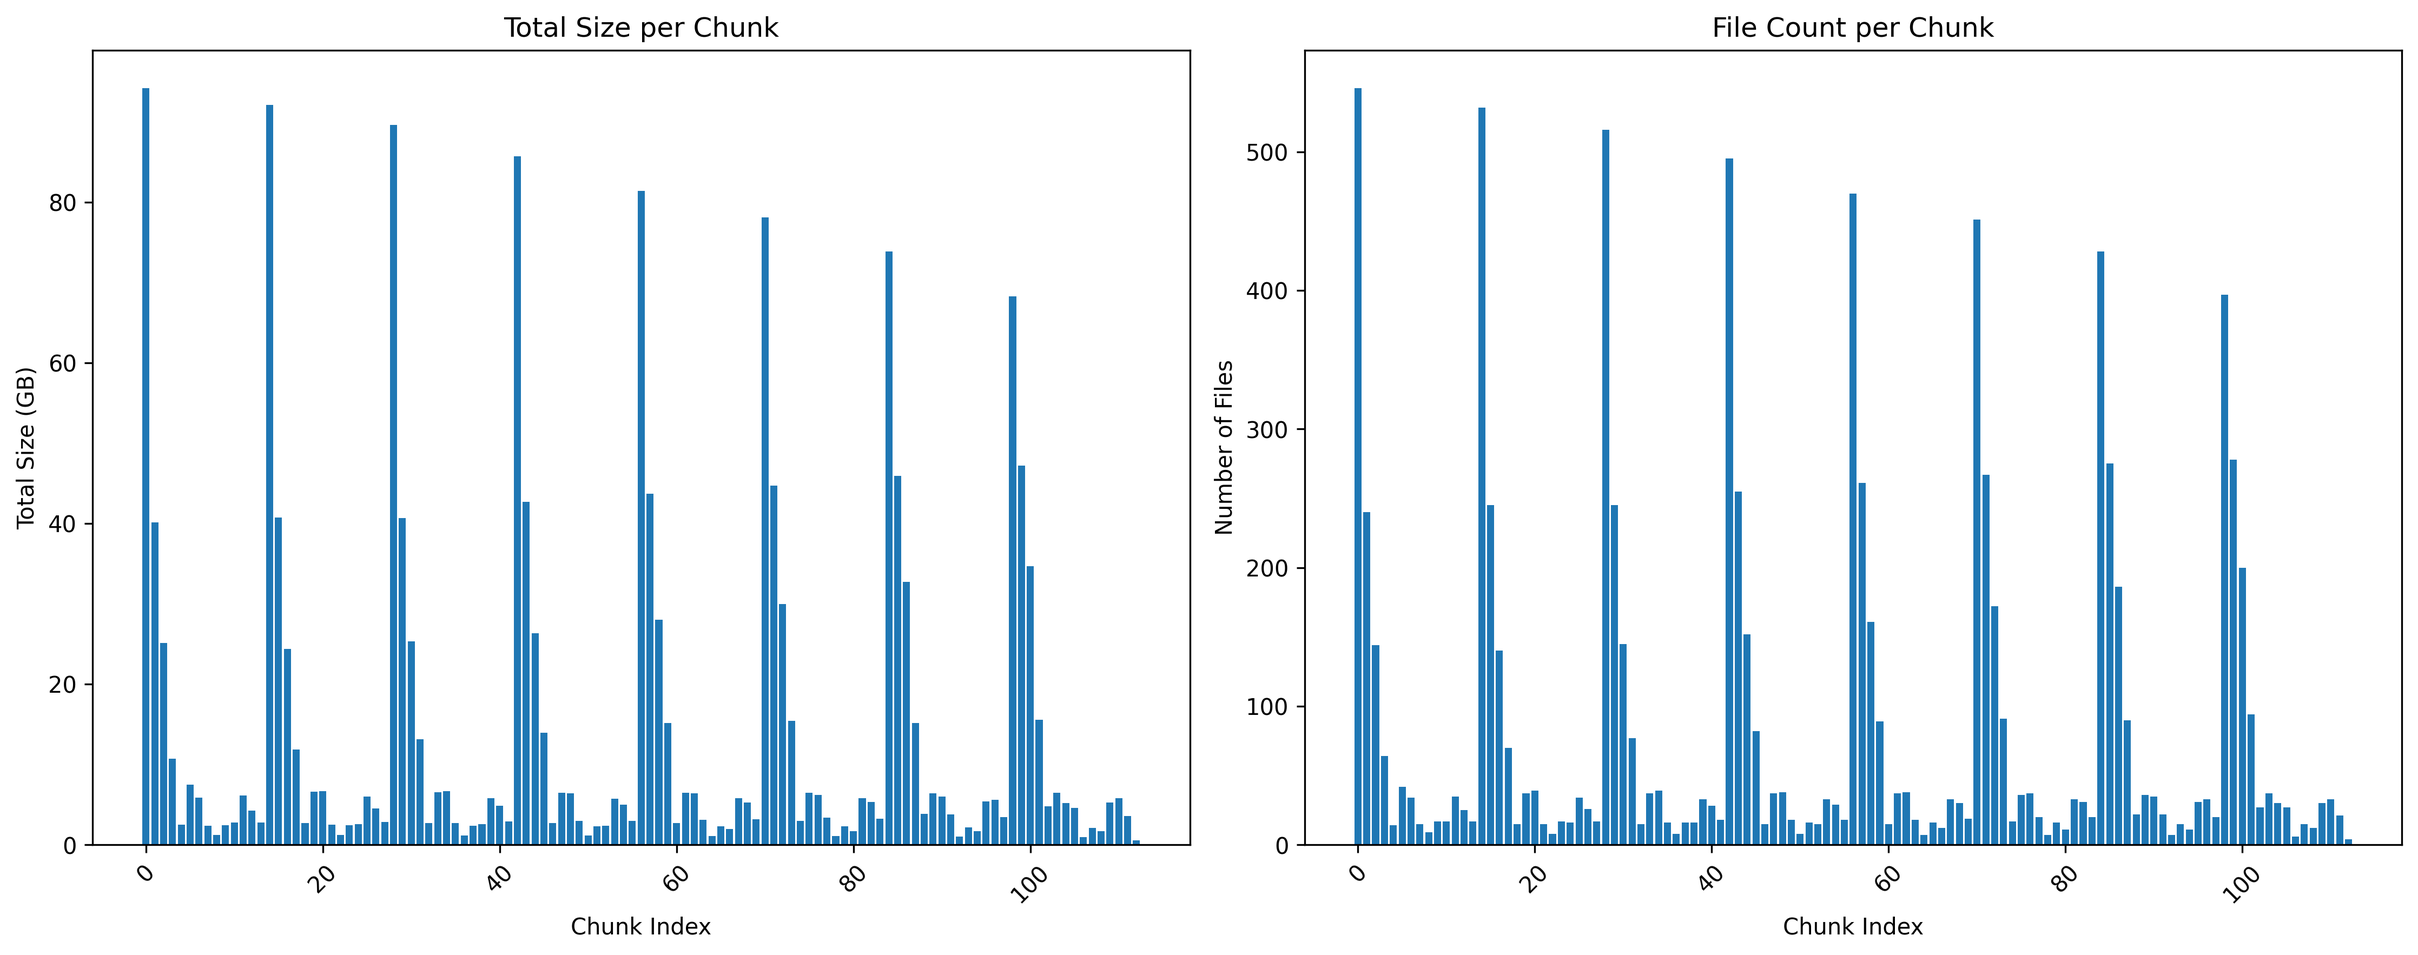
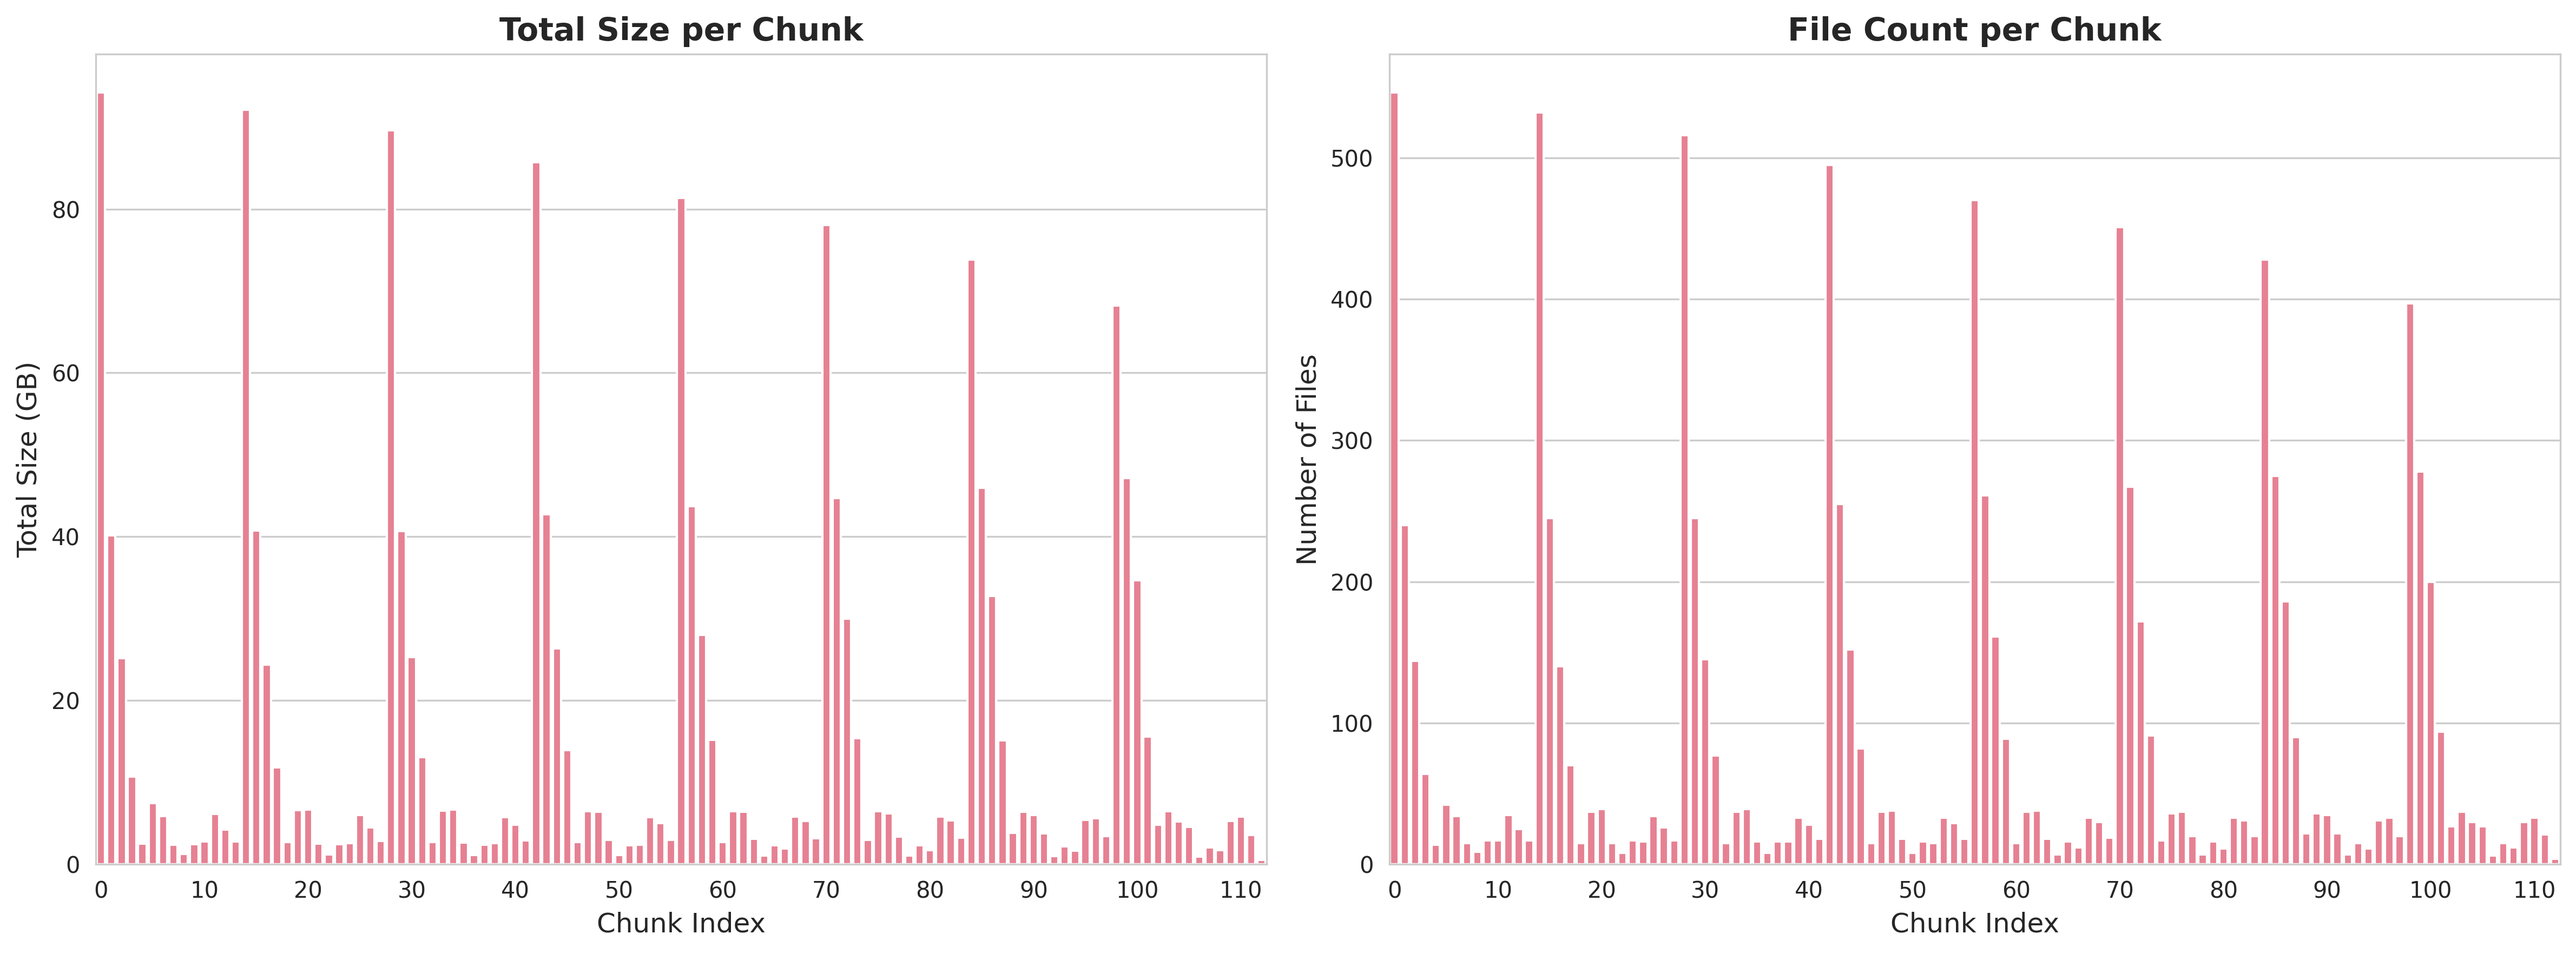
feat: Lorenz curve

diff --git a/scripts/plot_file_sizes.py b/scripts/plot_file_sizes.py
@@ -1,5 +1,10 @@
 import polars as pl
 import matplotlib.pyplot as plt
+import seaborn as sns
+
+# Set seaborn style
+sns.set_style("whitegrid")
+sns.set_palette("husl")
 
 # Load the data
 full_sizes = pl.read_csv("source_size/full_file_sizes.csv")
@@ -11,64 +16,99 @@ print(f"\nChunk totals:")
 print(chunk_totals)
 
 # Plot 1: Chunk totals bar chart
-fig, (ax1, ax2) = plt.subplots(1, 2, figsize=(15, 6))
+fig, (ax1, ax2) = plt.subplots(1, 2, figsize=(16, 6))
 
 # Bar chart of total size per chunk
 chunk_data = chunk_totals.sort("chunk_index")
-ax1.bar(chunk_data["chunk_index"], chunk_data["total_size_gb"])
-ax1.set_xlabel("Chunk Index")
-ax1.set_ylabel("Total Size (GB)")
-ax1.set_title("Total Size per Chunk")
-ax1.tick_params(axis='x', rotation=45)
+sns.barplot(data=chunk_data.to_pandas(), x="chunk_index", y="total_size_gb", ax=ax1)
+ax1.set_xlabel("Chunk Index", fontsize=12)
+ax1.set_ylabel("Total Size (GB)", fontsize=12)
+ax1.set_title("Total Size per Chunk", fontsize=14, fontweight='bold')
 
-# Plot 2: File count per chunk
-ax2.bar(chunk_data["chunk_index"], chunk_data["file_count"])
-ax2.set_xlabel("Chunk Index")
-ax2.set_ylabel("Number of Files")
-ax2.set_title("File Count per Chunk")
-ax2.tick_params(axis='x', rotation=45)
+# Show every 10th tick label
+chunk_indices = chunk_data["chunk_index"].to_list()
+ax1.set_xticks(range(0, len(chunk_indices), 10))
+ax1.set_xticklabels([chunk_indices[i] for i in range(0, len(chunk_indices), 10)])
+
+# File count per chunk
+sns.barplot(data=chunk_data.to_pandas(), x="chunk_index", y="file_count", ax=ax2)
+ax2.set_xlabel("Chunk Index", fontsize=12)
+ax2.set_ylabel("Number of Files", fontsize=12)
+ax2.set_title("File Count per Chunk", fontsize=14, fontweight='bold')
+
+# Show every 10th tick label
+ax2.set_xticks(range(0, len(chunk_indices), 10))
+ax2.set_xticklabels([chunk_indices[i] for i in range(0, len(chunk_indices), 10)])
 
 plt.tight_layout()
 plt.savefig("source_size/chunk_analysis.png", dpi=300, bbox_inches="tight")
 plt.show()
 
-# Plot 3: Distribution of individual file sizes
-plt.figure(figsize=(12, 8))
+# Plot 2: Distribution of individual file sizes
+fig, ((ax1, ax2), (ax3, ax4)) = plt.subplots(2, 2, figsize=(15, 10))
 
 # Histogram of file sizes
-plt.subplot(2, 2, 1)
-plt.hist(full_sizes["size_gb"], bins=50, alpha=0.7, edgecolor='black')
-plt.xlabel("File Size (GB)")
-plt.ylabel("Frequency")
-plt.title("Distribution of Individual File Sizes")
+sns.histplot(data=full_sizes.to_pandas(), x="size_gb", bins=50, kde=True, ax=ax1)
+ax1.set_xlabel("File Size (GB)", fontsize=12)
+ax1.set_ylabel("Frequency", fontsize=12)
+ax1.set_title("Distribution of Individual File Sizes", fontsize=14, fontweight='bold')
 
-# Box plot of file sizes per chunk (sample first few chunks if too many)
-plt.subplot(2, 2, 2)
-sample_chunks = full_sizes.filter(
-    pl.col("filename").str.extract(r"chunk_(\d+)", 1).cast(pl.Int32) < 10
+# Box plot of file sizes for ALL chunks (sample every 10th chunk for readability)
+sample_chunks = full_sizes.with_columns(
+    pl.col("filename").str.extract(r"chunk_(\d+)", 1).cast(pl.Int32).alias("chunk_num")
+).filter(
+    pl.col("chunk_num") % 10 == 0  # Every 10th chunk
 )
-chunk_labels = sample_chunks.with_columns(
-    pl.col("filename").str.extract(r"chunk_(\d+)", 1).alias("chunk")
-)
-chunks_list = chunk_labels["chunk"].unique().sort()
-box_data = [chunk_labels.filter(pl.col("chunk") == c)["size_gb"].to_list() 
-           for c in chunks_list]
-plt.boxplot(box_data, labels=chunks_list)
-plt.xlabel("Chunk Index")
-plt.ylabel("File Size (GB)")
-plt.title("File Size Distribution by Chunk (First 10)")
+chunk_labels_df = sample_chunks.to_pandas()
+sns.boxplot(data=chunk_labels_df, x="chunk_num", y="size_gb", ax=ax2)
+ax2.set_xlabel("Chunk Index (Every 10th)", fontsize=12)
+ax2.set_ylabel("File Size (GB)", fontsize=12)
+ax2.set_title("File Size Distribution by Chunk (Every 10th)", fontsize=14, fontweight='bold')
 
 # Scatter plot: file index vs size for first chunk
-plt.subplot(2, 1, 2)
-chunk_0_files = full_sizes.filter(pl.col("filename").str.contains("chunk_0"))
-file_indices = range(len(chunk_0_files))
-plt.scatter(file_indices, chunk_0_files["size_gb"], alpha=0.6, s=20)
-plt.xlabel("File Index within Chunk 0")
-plt.ylabel("File Size (GB)")
-plt.title("File Sizes within Chunk 0")
+chunk_0_files = full_sizes.filter(pl.col("filename").str.contains("chunk_0")).to_pandas()
+chunk_0_files['file_index'] = range(len(chunk_0_files))
+sns.scatterplot(data=chunk_0_files, x="file_index", y="size_gb", alpha=0.6, ax=ax3)
+ax3.set_xlabel("File Index within Chunk 0", fontsize=12)
+ax3.set_ylabel("File Size (GB)", fontsize=12)
+ax3.set_title("File Sizes within Chunk 0", fontsize=14, fontweight='bold')
+
+# Violin plot showing distribution across all chunks (sample for readability)
+sample_for_violin = full_sizes.with_columns(
+    pl.col("filename").str.extract(r"chunk_(\d+)", 1).cast(pl.Int32).alias("chunk_num")
+).filter(
+    pl.col("chunk_num") < 20  # First 20 chunks
+).to_pandas()
+sns.violinplot(data=sample_for_violin, x="chunk_num", y="size_gb", ax=ax4)
+ax4.set_xlabel("Chunk Index (First 20)", fontsize=12)
+ax4.set_ylabel("File Size (GB)", fontsize=12)
+ax4.set_title("File Size Distribution by Chunk (Violin Plot)", fontsize=14, fontweight='bold')
+ax4.tick_params(axis='x', rotation=45)
 
 plt.tight_layout()
 plt.savefig("source_size/file_size_distribution.png", dpi=300, bbox_inches="tight")
+plt.show()
+
+# Plot 3: Line plot showing trends across all chunks
+fig, (ax1, ax2) = plt.subplots(2, 1, figsize=(16, 10))
+
+# Total size trend
+chunk_pandas = chunk_data.to_pandas()
+sns.lineplot(data=chunk_pandas, x="chunk_index", y="total_size_gb", marker='o', ax=ax1)
+ax1.set_xlabel("Chunk Index", fontsize=12)
+ax1.set_ylabel("Total Size (GB)", fontsize=12)
+ax1.set_title("Total Size Trend Across All Chunks", fontsize=14, fontweight='bold')
+ax1.grid(True, alpha=0.3)
+
+# File count trend
+sns.lineplot(data=chunk_pandas, x="chunk_index", y="file_count", marker='s', color='orange', ax=ax2)
+ax2.set_xlabel("Chunk Index", fontsize=12)
+ax2.set_ylabel("Number of Files", fontsize=12)
+ax2.set_title("File Count Trend Across All Chunks", fontsize=14, fontweight='bold')
+ax2.grid(True, alpha=0.3)
+
+plt.tight_layout()
+plt.savefig("source_size/chunk_trends.png", dpi=300, bbox_inches="tight")
 plt.show()
 
 print(f"\nSummary statistics:")
@@ -78,3 +118,6 @@ print(f"Average file size: {full_sizes['size_gb'].mean():.3f} GB")
 print(f"Median file size: {full_sizes['size_gb'].median():.3f} GB")
 print(f"Largest file: {full_sizes['size_gb'].max():.3f} GB")
 print(f"Smallest file: {full_sizes['size_gb'].min():.3f} GB")
+print(f"Average chunk size: {chunk_totals['total_size_gb'].mean():.2f} GB")
+print(f"Largest chunk: {chunk_totals['total_size_gb'].max():.2f} GB")
+print(f"Smallest chunk: {chunk_totals['total_size_gb'].min():.2f} GB")

diff --git a/scripts/plot_file_sizes_lorenz_curve.py b/scripts/plot_file_sizes_lorenz_curve.py
@@ -1,0 +1,37 @@
+import matplotlib.pyplot as plt
+import numpy as np
+import polars as pl
+
+full_sizes = pl.read_csv("source_size/full_file_sizes.csv")
+
+s = full_sizes["size_gb"].sort()  # ascending
+sizes = s.to_numpy()
+cum_files = np.arange(1, len(sizes) + 1) / len(sizes)
+cum_bytes = np.cumsum(sizes) / sizes.sum()
+
+plt.figure(figsize=(6, 6))
+plt.plot(cum_files, cum_bytes, label="Lorenz curve")
+plt.plot([0, 1], [0, 1], linestyle="--", label="Equality line")
+
+# Mark 80% of bytes point
+k = int(np.searchsorted(cum_bytes, 0.80)) + 1
+plt.scatter(cum_files[k - 1], cum_bytes[k - 1])
+plt.annotate(
+    f"{k/len(sizes):.1%} of files → 80% of bytes",
+    xy=(cum_files[k - 1], cum_bytes[k - 1]),
+    xytext=(0.55, 0.2),
+    arrowprops=dict(arrowstyle="->"),
+)
+
+plt.xlabel("Cumulative share of files")
+plt.ylabel("Cumulative share of total size (GB)")
+plt.title("Lorenz Curve of File Sizes")
+plt.legend()
+plt.tight_layout()
+plt.savefig("source_size/lorenz_curve.png", dpi=300, bbox_inches="tight")
+plt.close()
+
+# Optional: Gini coefficient
+gini = 1 - 2 * np.trapezoid(cum_bytes, cum_files)
+print(f"Gini (file size inequality): {gini:.3f}")
+print("Lorenz curve saved to source_size/lorenz_curve.png")

diff --git a/scripts/source_size/README.md b/scripts/source_size/README.md
@@ -5,3 +5,8 @@ Average file size: 0.171 GB
 Median file size: 0.165 GB
 Largest file: 0.733 GB
 Smallest file: 0.005 GB
+Average chunk size: 14.66 GB
+Largest chunk: 94.21 GB
+Smallest chunk: 0.56 GB
+
+Gini (file size inequality): 0.217
